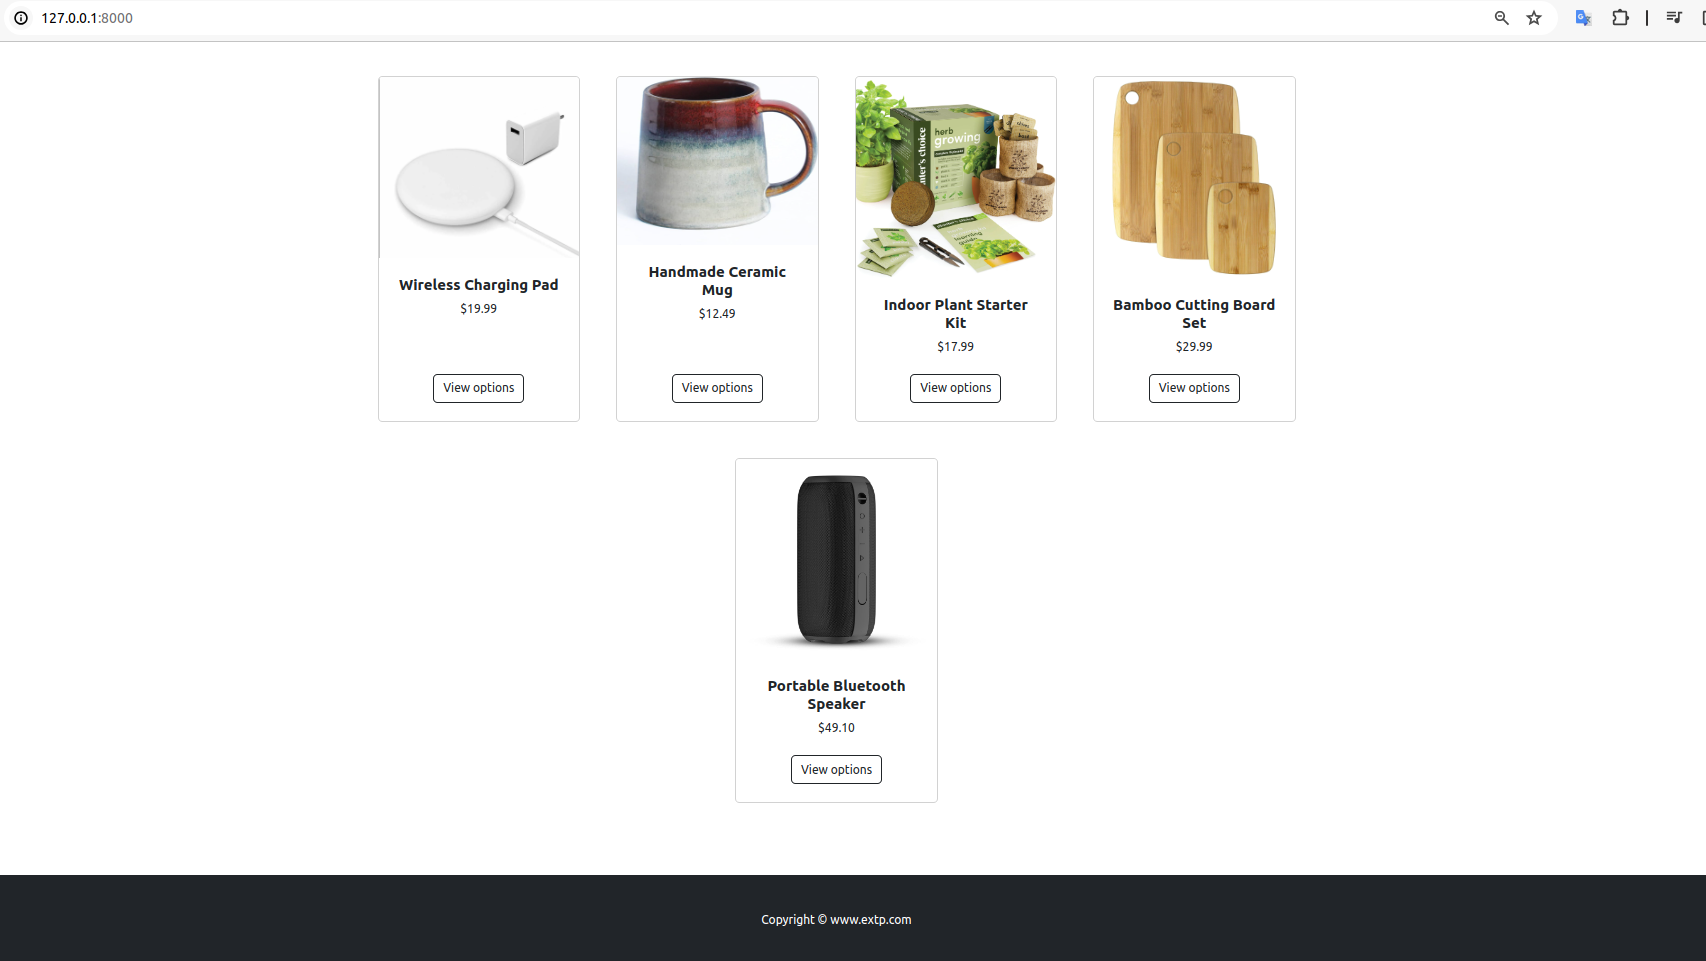
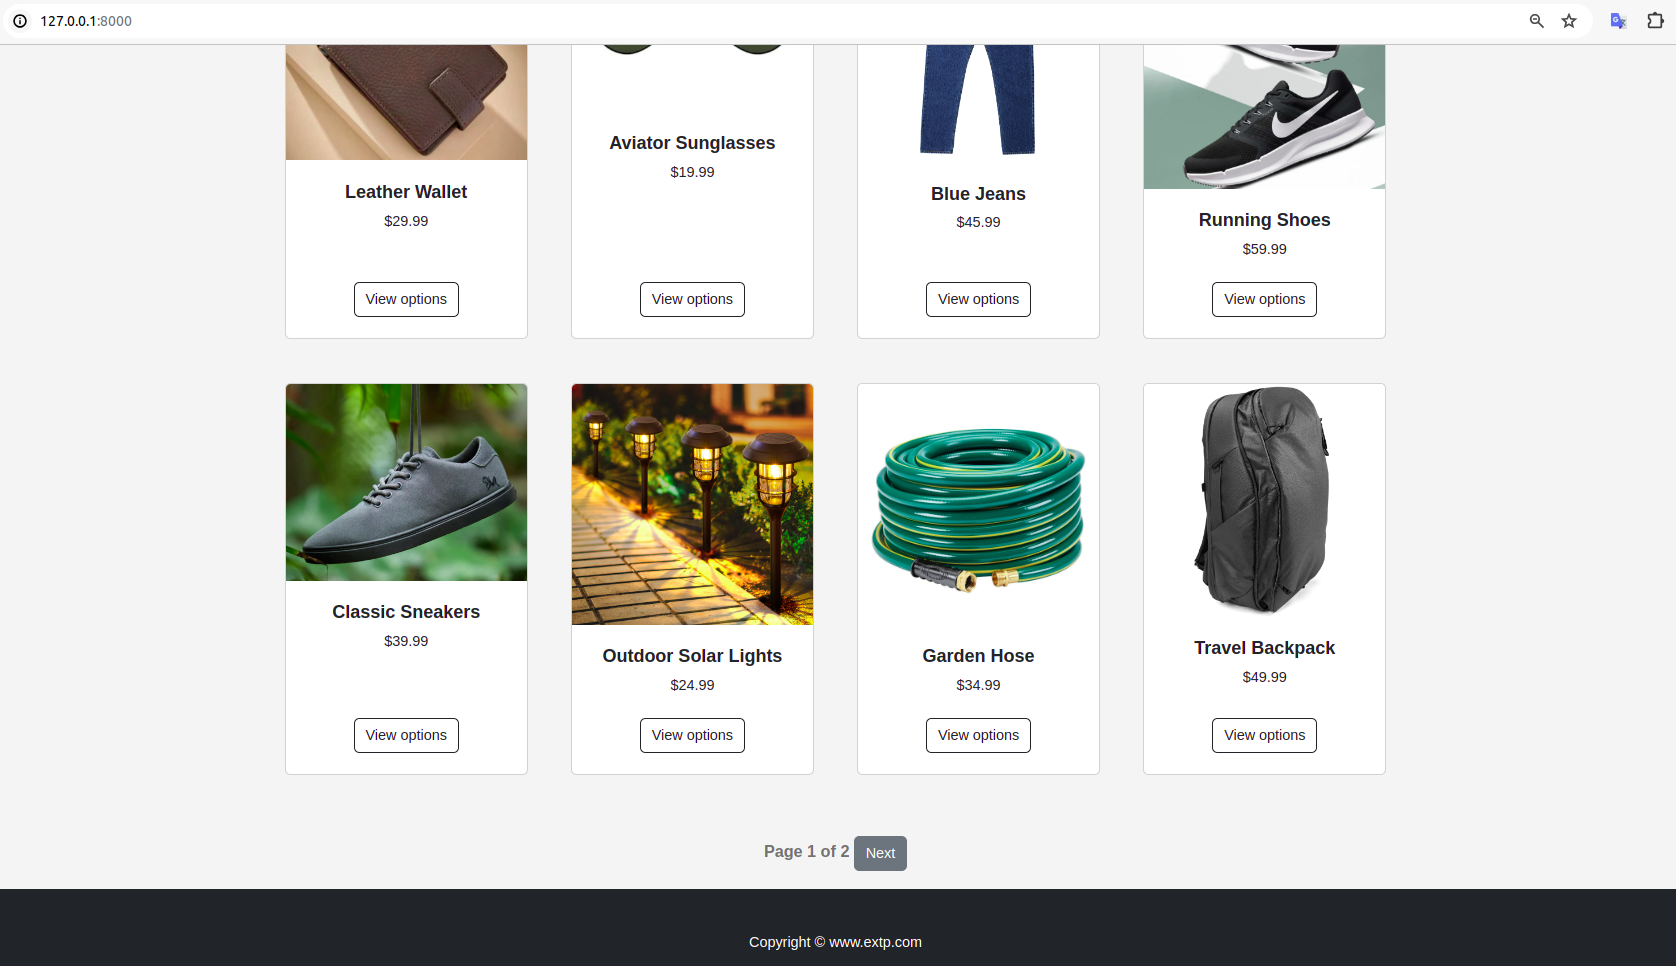
update

diff --git a/README.md b/README.md
@@ -1,5 +1,11 @@
 # Django_Ecommerce_Website
   
+### Features:  
+- Added pagination. On a full page - max 20 products
+- Implemented Search System 
+- Registration and Login system
+- Implemented multi-categories system. We can add as many categories as we want and system will add it to Categories section (in nav bar) automatically  
+- Implemented Cart system. Each user have a different cart. Information is saved in a database
   
 ## How it looks like now  
   
@@ -7,7 +13,7 @@
   
 ![home](./!resources/media/home2.png)  
   
-### Other products  
+### Other products (also implemented paginator)  
   
 ![home](./!resources/media/other_products.png)  
   
@@ -42,13 +48,7 @@
 ![home](./!resources/media/update.png)    
   
   
-### Features:  
-- Added pagination. On a full page - max 20 products
-- Implemented Search System 
-- Registration and Login system
-- Implemented multi-categories system. We can add as many categories as we want and system will add it to Categories section (in nav bar) automatically  
-- Implemented Cart system. Each user have a different cart. Information is saved in a database
 
-### Project is still in progress (the basic part has been built. 70% done)    
+### Project is still in progress (the basic part has been built. 80% done)    
   
 Template from - https://startbootstrap.com/template/shop-homepage  
